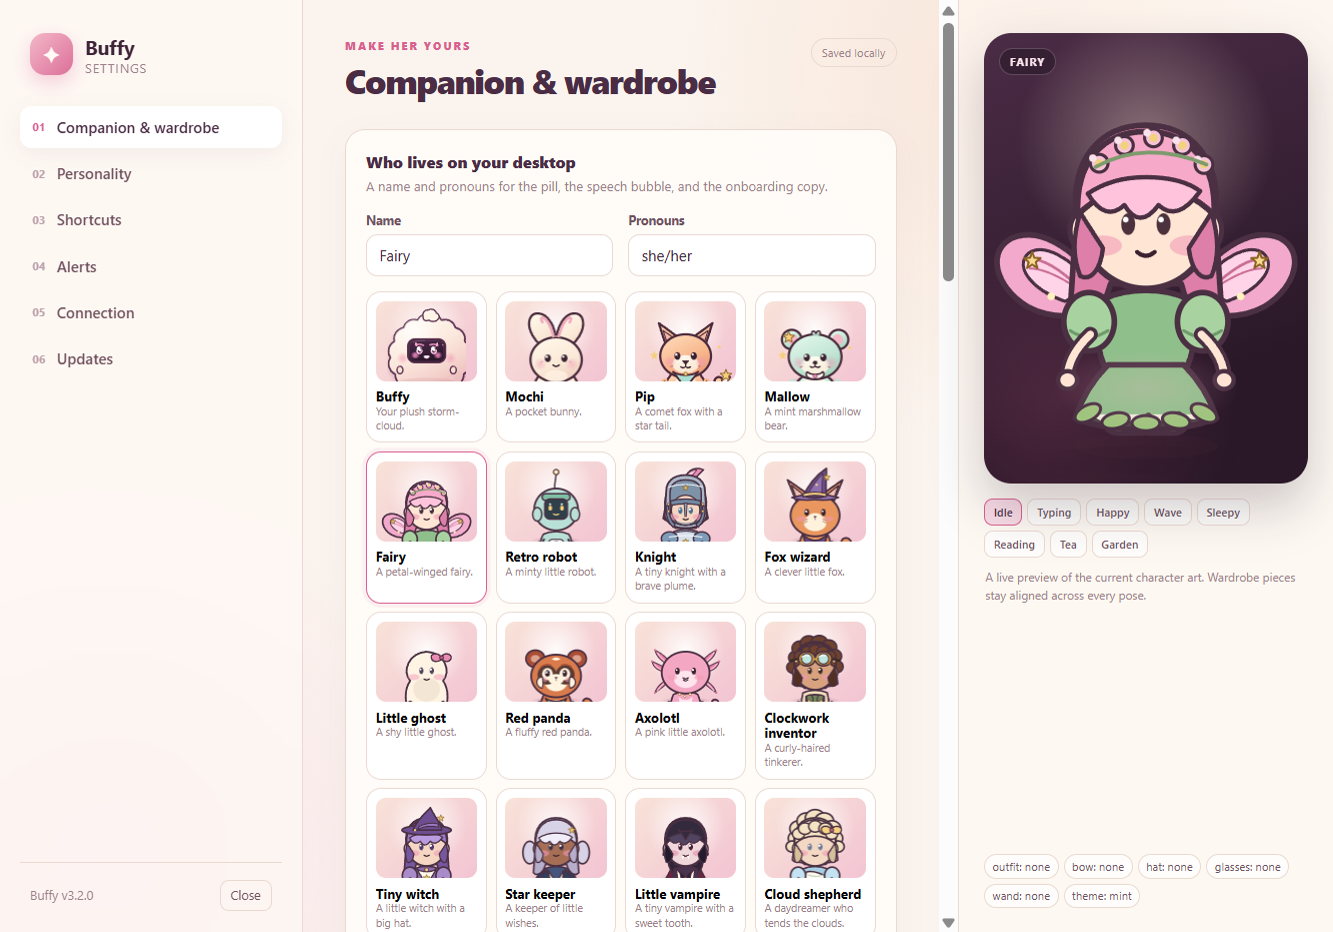
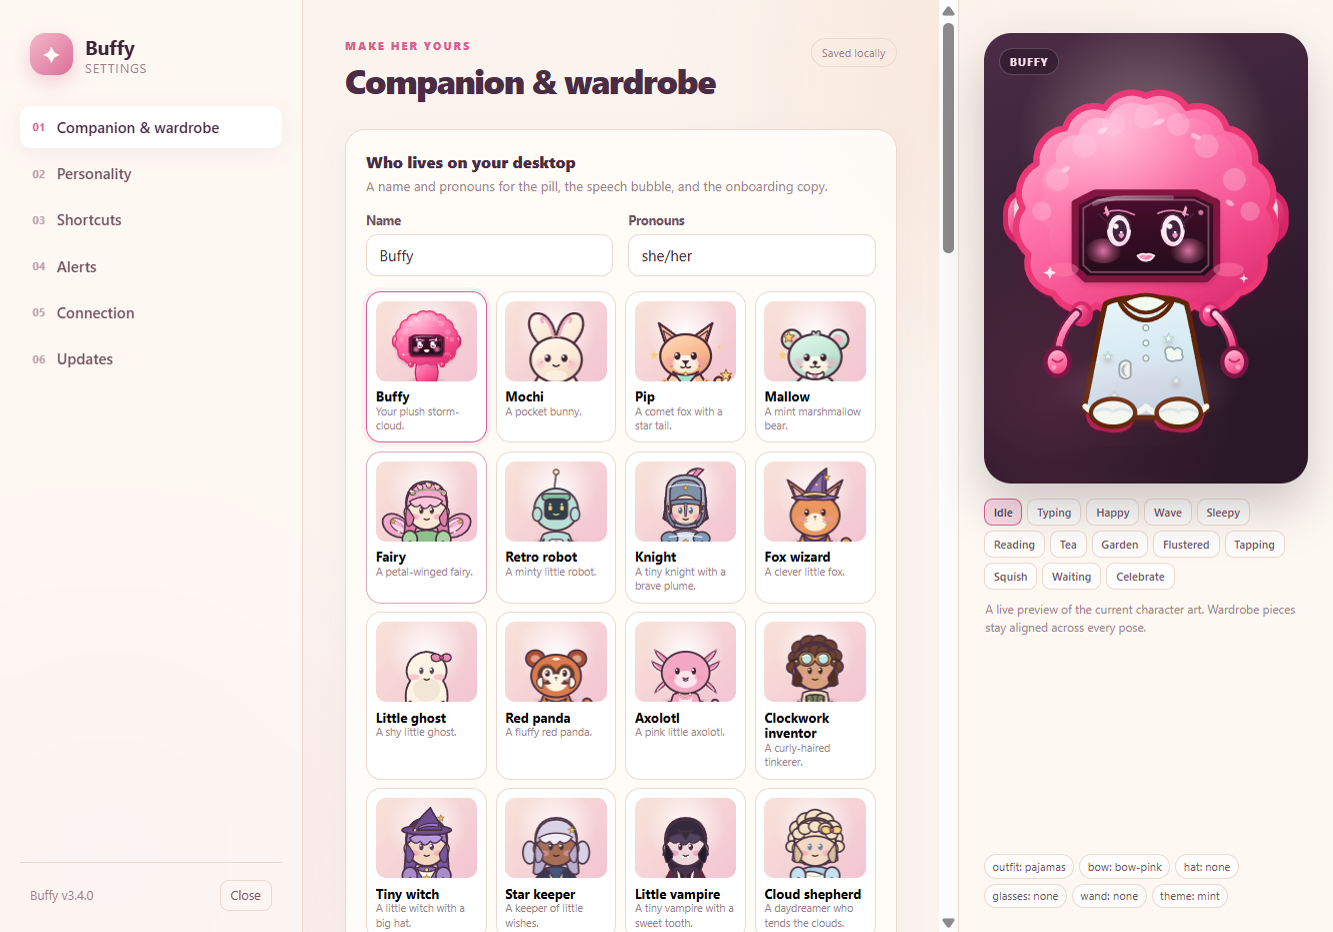
Show the plush Buffy in the site screenshots.
The three app captures still showed the cream cloud from before the redesign,
and the settings one still carried the 3.2.0 footer. They are re-shot against
3.4.0 in her mint pajamas with a seeded look, so the page sells the character
the release actually ships, and the cache-busters move with the bytes.

🤖 Generated with Codebuff

diff --git a/docs/index.html b/docs/index.html
@@ -207,19 +207,19 @@
         <div class="shot-grid">
           <figure class="shot shot-wide">
             <div class="shot-art art-lilac">
-              <img src="shots/settings.png?v=3.4.0-roster" width="1333" height="932" loading="lazy" alt="Buffy's settings window with the 22-companion roster, Fairy selected, the Size control, wardrobe chips, and a live preview of Fairy">
+              <img src="shots/settings.png?v=3.4.0-roster-plush" width="1333" height="932" loading="lazy" alt="Buffy's settings window with the 22-companion roster, Buffy selected, the wardrobe chips and look summary, and a live preview of Buffy in her mint pajamas">
             </div>
             <figcaption><strong>Make her yours</strong><span>Six settings sections, a Small–Huge size control, a 22-companion roster, per-character looks, 32 saved looks, and a live animated preview.</span></figcaption>
           </figure>
           <figure class="shot shot-tall">
             <div class="shot-art art-pink">
-              <img src="shots/overlay.png?v=3.4.0-shots" width="475" height="814" loading="lazy" alt="The Buffy overlay showing Buffy in starry pajamas with heart eyes, a 'That tickles!' bubble, a Happy pill, and the quick-action toolbar">
+              <img src="shots/overlay.png?v=3.4.0-shots-plush" width="475" height="814" loading="lazy" alt="The Buffy overlay showing Buffy in starry pajamas with heart eyes, a 'That tickles!' bubble, a Happy pill, and the quick-action toolbar">
             </div>
             <figcaption><strong>At the edge of your screen</strong><span>A heart-eyed hello in her starry pajamas, the Happy pill, and the toolbar for composing, activity, saying hi, compact mode, and settings.</span></figcaption>
           </figure>
           <figure class="shot shot-tall">
             <div class="shot-art art-lilac">
-              <img src="shots/compose.png?v=3.4.0-shots" width="525" height="975" loading="lazy" alt="The compose panel over Buffy, with a prompt draft, a note that nothing is sent automatically, and Copy and Open in Claude buttons">
+              <img src="shots/compose.png?v=3.4.0-shots-plush" width="525" height="975" loading="lazy" alt="The compose panel over Buffy, with an empty prompt field, a note that nothing is sent automatically, and Copy and Open in Claude buttons">
             </div>
             <figcaption><strong>The composer</strong><span>Type, keep the draft, then hand it to Claude. Nothing sends until you send it.</span></figcaption>
           </figure>
